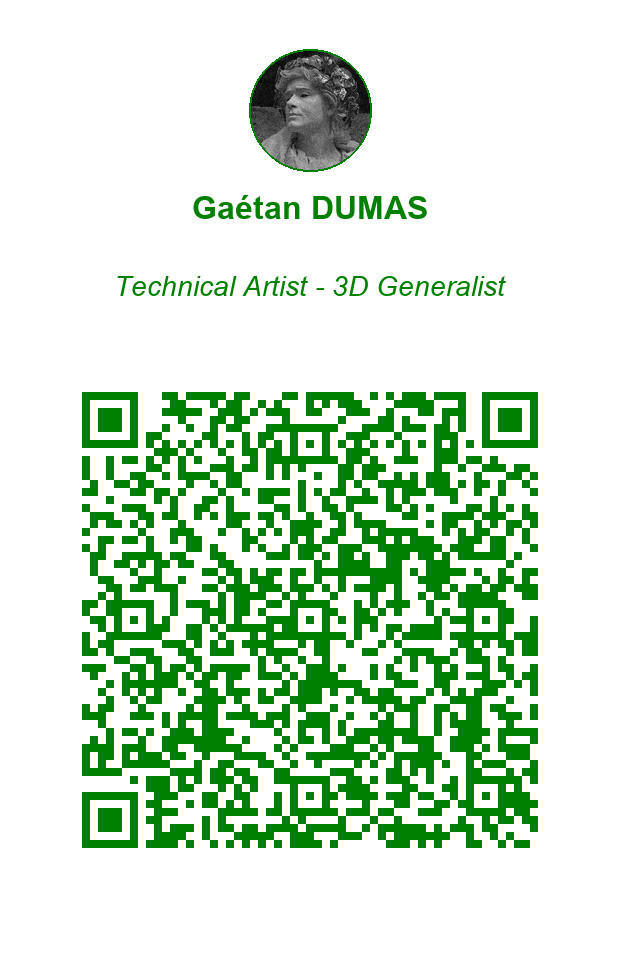
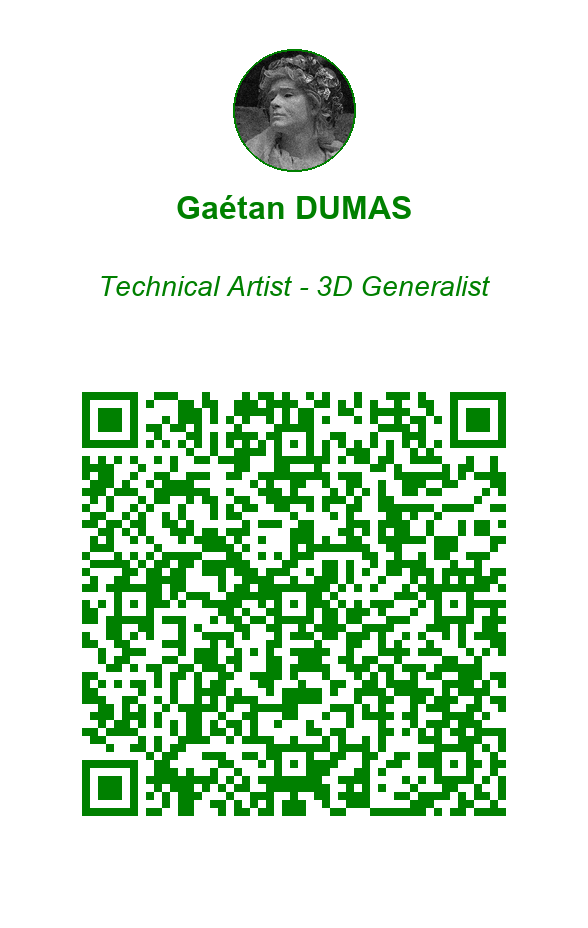
fix name and add new contact qr

Changed region(s): [[0.1224, 0.4062, 0.8878, 0.9062], [0.3061, 0.0312, 0.7041, 0.25], [0.1837, 0.2812, 0.8265, 0.3438]]

diff --git a/qrcode_portfolio.py b/qrcode_portfolio.py
@@ -438,7 +438,7 @@ def main():
         'name': 'Gaétan DUMAS',
         'phone': '+33 6 33 38 17 90',
         'email': 'gaetan.dumas.3d@gmail.com',
-        'organization': 'Technial Artist - 3D Generalist',
+        'organization': '',
         'url': 'https://linktr.ee/g144hz'
     }
     
@@ -453,7 +453,7 @@ def main():
         'title_font_size': 32,
         'description_font_size': 28,
         # ===== STYLE DU QR CODE =====
-        'qr_style': 'dots',
+        'qr_style': 'rounded',
         # ===== COULEURS =====
         'qr_color': 'green',
         'qr_background': 'white',
